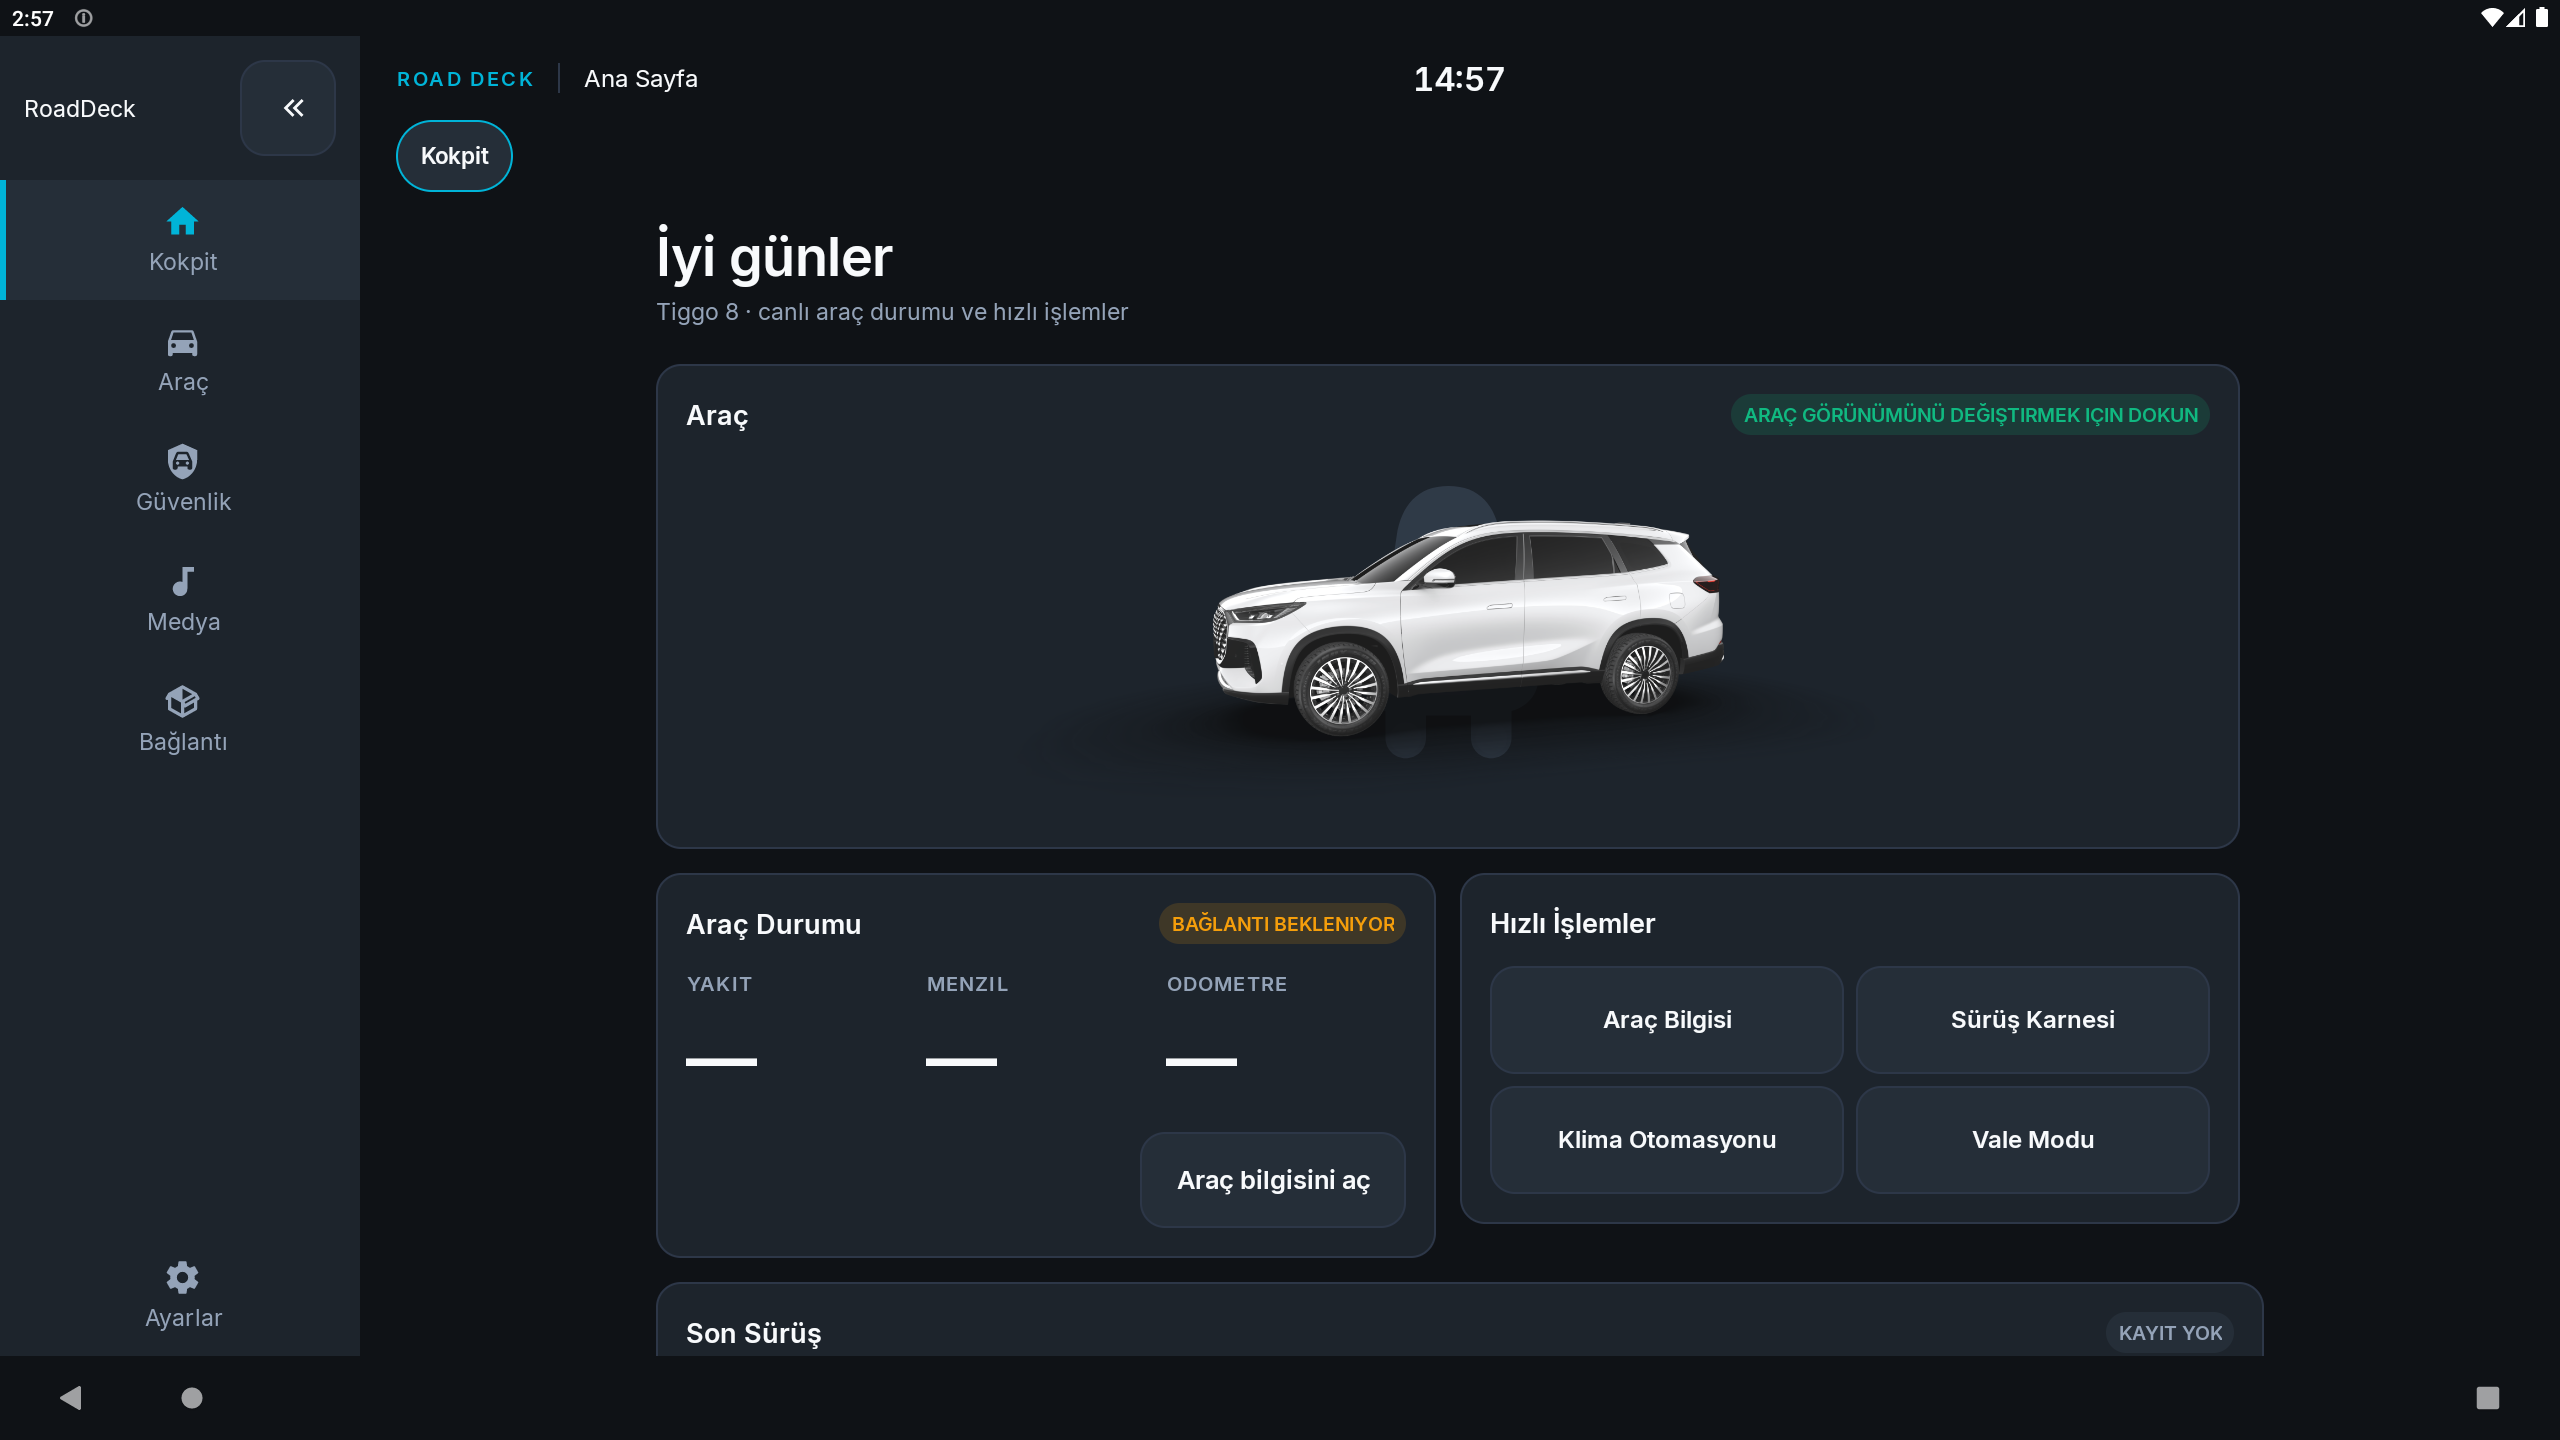
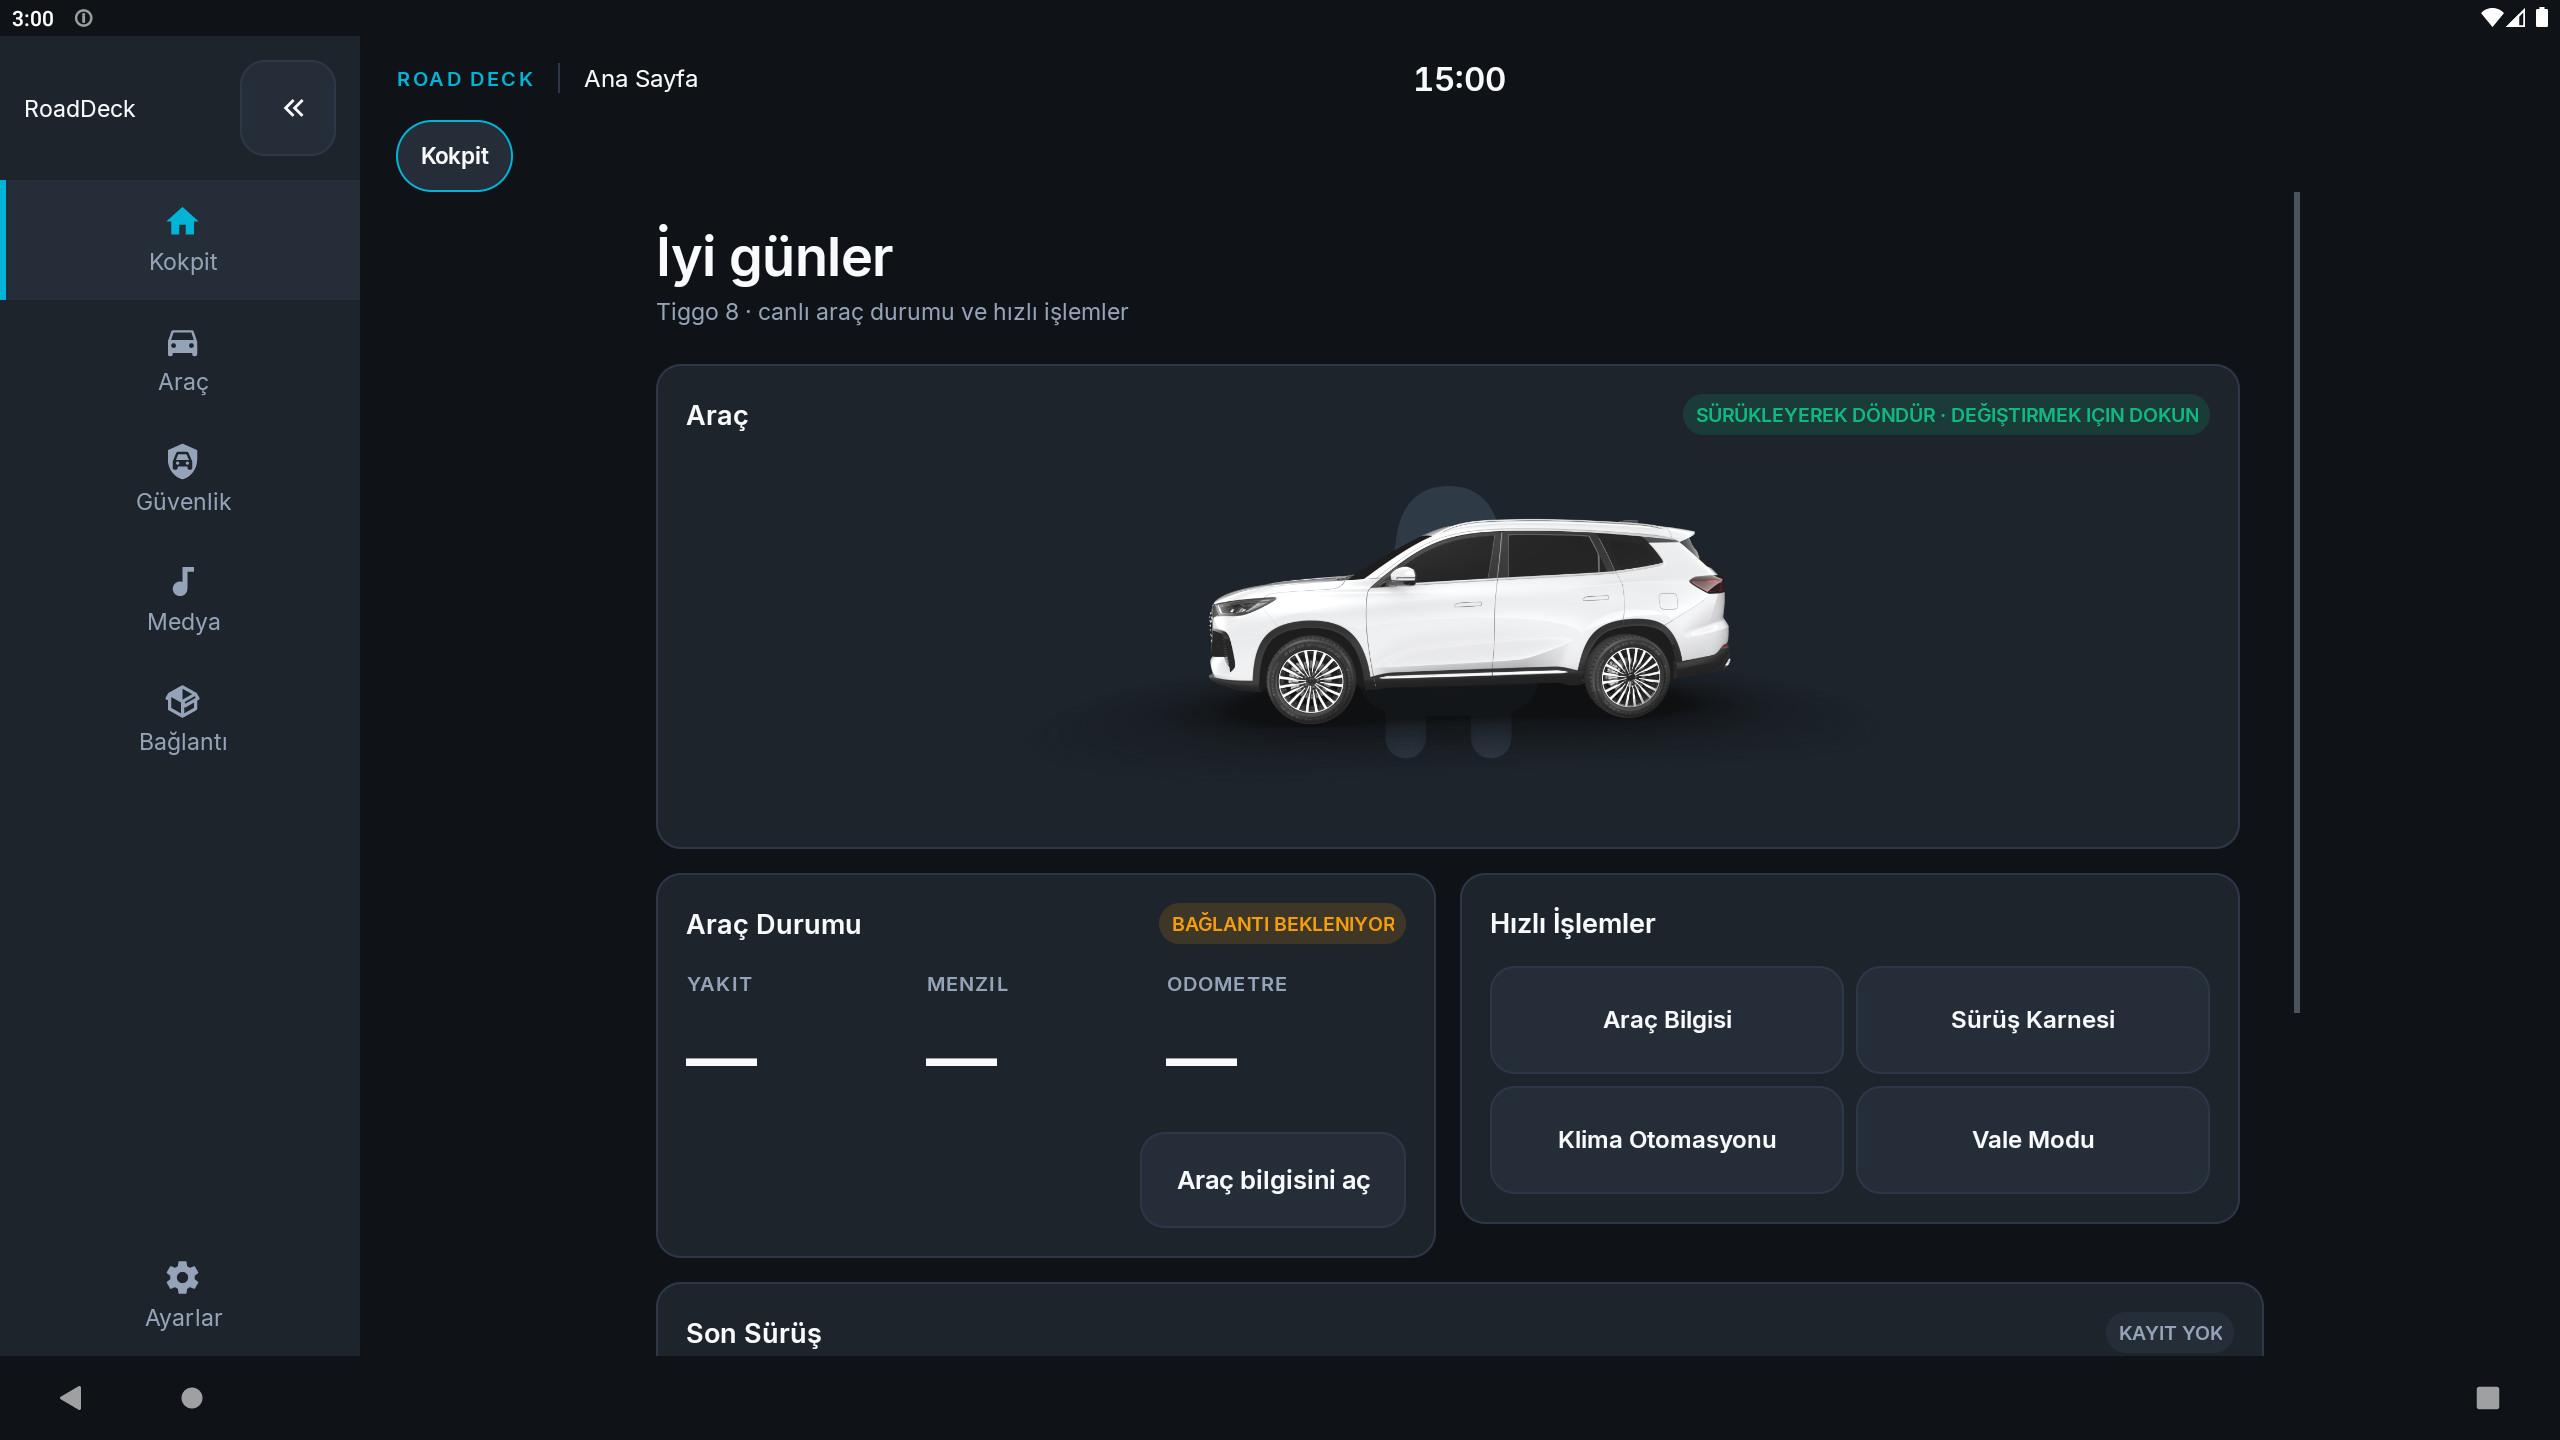
feat: arac acilista bir kez 360 derece donuyor
- car_model_face1 kareleri tek seferlik oynatiliyor (55 ms/kare)
- Reveal sonrasi baslar; bitince statik gorsele doner
- Kullanici dokunursa donus durur, arac secimi acilir
- Tekrar ziyaretlerde otomatik donus yok

Changed region(s): [[0.4688, 0.3438, 0.6875, 0.5312], [0.6562, 0.2812, 0.8438, 0.3125], [0.5625, 0.0312, 0.5938, 0.0625]]

diff --git a/app/src/main/java/com/mapcontrol/ui/widget/VehicleModelHostView.java b/app/src/main/java/com/mapcontrol/ui/widget/VehicleModelHostView.java
@@ -56,6 +56,8 @@ public final class VehicleModelHostView extends FrameLayout {
     private float spinDownX;
     private int spinDownFrame;
     private boolean spinning;
+    private boolean introSpinning;
+    private boolean introSpinPlayed;
     private final SparseArray<Bitmap> spinCache = new SparseArray<>();
     private ViewMode currentMode = ViewMode.NORMAL;
 
@@ -102,6 +104,9 @@ public final class VehicleModelHostView extends FrameLayout {
         }
         switch (event.getActionMasked()) {
             case MotionEvent.ACTION_DOWN:
+                if (introSpinning) {
+                    stopIntroSpin();
+                }
                 spinDownX = event.getX();
                 spinDownFrame = spinFrame;
                 spinning = false;
@@ -132,6 +137,35 @@ public final class VehicleModelHostView extends FrameLayout {
             default:
                 return true;
         }
+    }
+
+    private void playIntroSpin() {
+        if (introSpinPlayed || spinPrefix == null || spinLastFrame <= 1 || !isAttachedToWindow()) {
+            return;
+        }
+        introSpinPlayed = true;
+        introSpinning = true;
+        carImageView.setVisibility(GONE);
+        fallbackView.setVisibility(GONE);
+        animationView.setOnCompleteListener(() -> {
+            introSpinning = false;
+            animationView.hide();
+            carImageView.setVisibility(VISIBLE);
+            spinFrame = spinLastFrame;
+        });
+        animationView.setResources(resources);
+        animationView.setVisibility(VISIBLE);
+        animationView.play(spinPrefix, 0, spinLastFrame, false, 55);
+    }
+
+    private void stopIntroSpin() {
+        if (!introSpinning) {
+            return;
+        }
+        introSpinning = false;
+        animationView.stop();
+        animationView.hide();
+        carImageView.setVisibility(VISIBLE);
     }
 
     private void showSpinFrame(int index) {
@@ -288,6 +322,7 @@ public final class VehicleModelHostView extends FrameLayout {
             carImageView.setVisibility(VISIBLE);
             fallbackView.setVisibility(GONE);
             post(this::animateReveal);
+            postDelayed(this::playIntroSpin, 340);
             return;
         }
         oemAssetsLoaded = false;

diff --git a/app/src/main/java/com/mapcontrol/ui/widget/OemFrameAnimationView.java b/app/src/main/java/com/mapcontrol/ui/widget/OemFrameAnimationView.java
@@ -30,7 +30,9 @@ public final class OemFrameAnimationView extends View {
     private int endIndex = -1;
     private boolean reverse;
     private boolean playing;
+    private long frameDelayMs = FRAME_DELAY_MS;
     private Bitmap currentFrame;
+    @Nullable private Runnable onComplete;
 
     private final Runnable frameRunnable = new Runnable() {
         @Override
@@ -44,16 +46,18 @@ public final class OemFrameAnimationView extends View {
             if (endIndex >= 0) {
                 if (!reverse && frameIndex >= endIndex) {
                     stop();
+                    runComplete();
                     return;
                 }
                 if (reverse && frameIndex <= endIndex) {
                     stop();
+                    runComplete();
                     return;
                 }
             }
 
             frameIndex += reverse ? -1 : 1;
-            handler.postDelayed(this, FRAME_DELAY_MS);
+            handler.postDelayed(this, frameDelayMs);
         }
     };
 
@@ -65,12 +69,28 @@ public final class OemFrameAnimationView extends View {
         super(context, attrs);
     }
 
+    public void setOnCompleteListener(@Nullable Runnable listener) {
+        this.onComplete = listener;
+    }
+
+    private void runComplete() {
+        Runnable listener = onComplete;
+        if (listener != null) {
+            listener.run();
+        }
+    }
+
     public void setResources(MaterialVehicleResources resources) {
         this.resources = resources;
     }
 
     public void play(String prefix, int startIndex, int endIndex, boolean reverse) {
+        play(prefix, startIndex, endIndex, reverse, FRAME_DELAY_MS);
+    }
+
+    public void play(String prefix, int startIndex, int endIndex, boolean reverse, long delayMs) {
         stop();
+        this.frameDelayMs = delayMs;
         this.prefix = prefix;
         this.frameIndex = startIndex;
         this.endIndex = endIndex;
